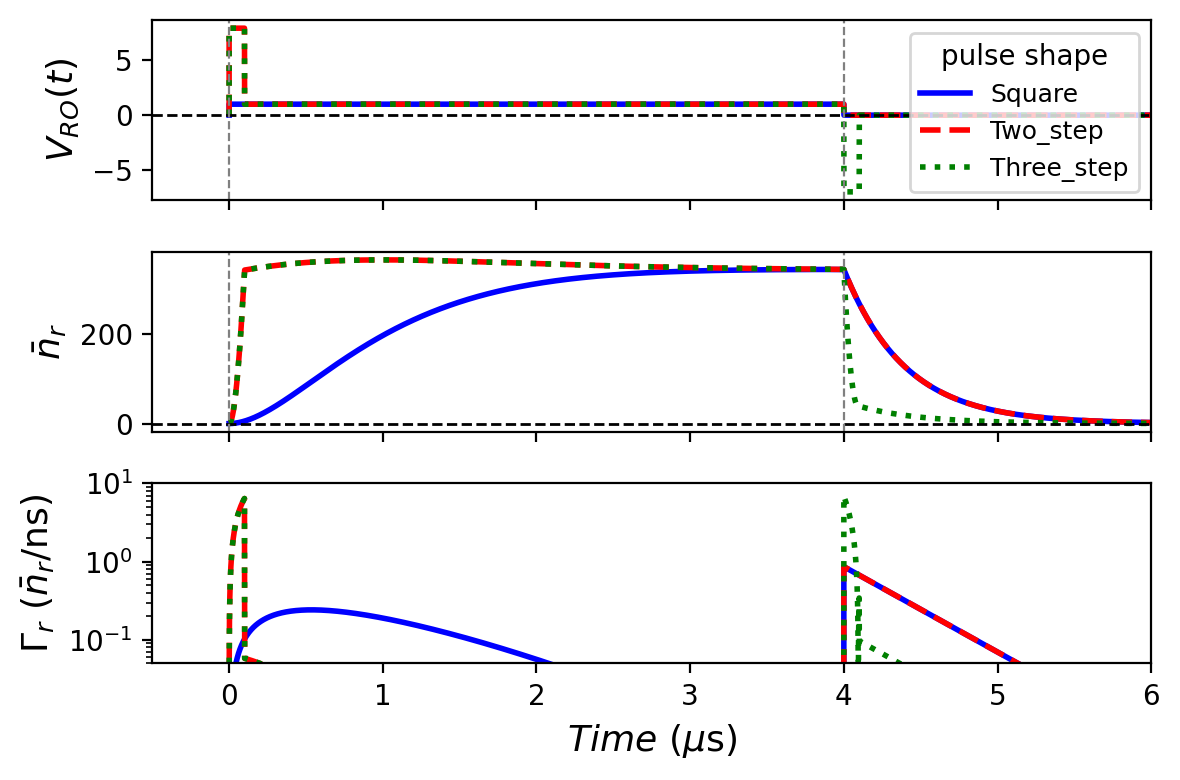
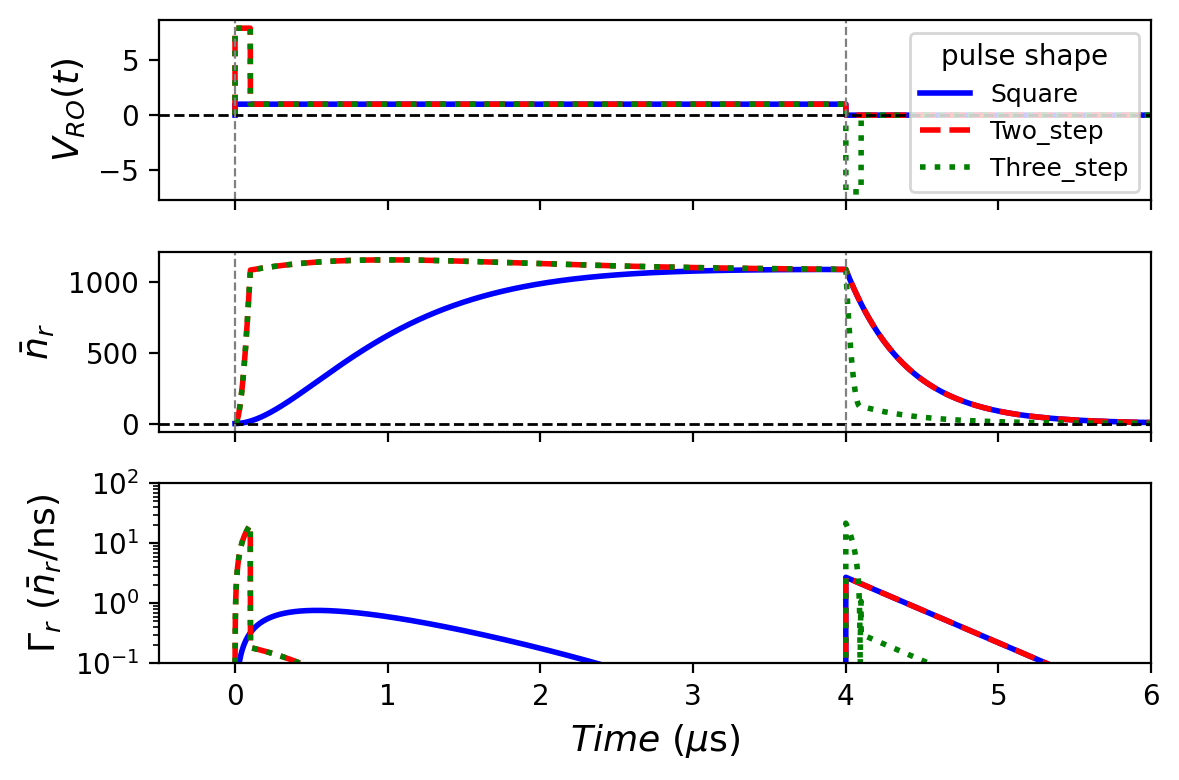
Update

diff --git a/temp/sweep_pulse_shape.py b/temp/sweep_pulse_shape.py
@@ -10,7 +10,7 @@ para_base = {
     'X_eff': 0.000075,
     'pulse_shape': 'Three_step',
     'phase_correction': False,
-    'P_in': -120,
+    'P_in': -115,
     'time': 6000,
     'ti': 0,
     'Du': 4000,
@@ -73,12 +73,12 @@ axes[2].axhline(y=0, color='k', linestyle='dashed', lw=1)
 
 # axes[2].legend(fontsize=7, title="pulse_shape", ncol=2)
 axes[2].set_yscale('log')
-axes[2].set_ylim(5e-2, 10)
+axes[2].set_ylim(1e-1, 100)
 
 ax3.set_xlabel(r'$\bar{n}_r$', size=13)
 ax3.set_ylabel(r'$|\Gamma_{r}|\ (\bar{n}_r/\mathrm{ns})$', size=13)
 ax3.set_yscale('log')
-ax3.set_ylim(5e-2, 10)
+ax3.set_ylim(1e-1, 100)
 ax3.legend(fontsize=7, title="pulse shape", ncol=2)
 
 fig.tight_layout()